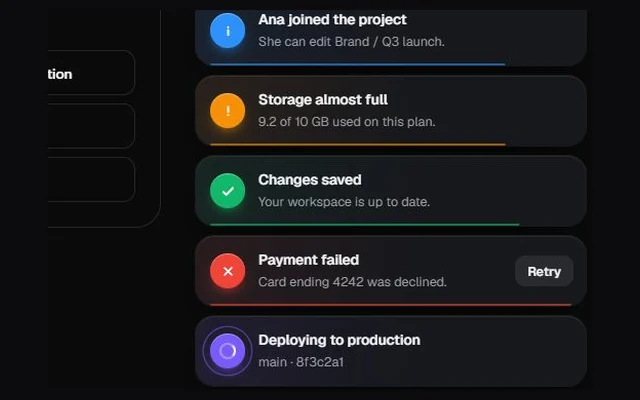
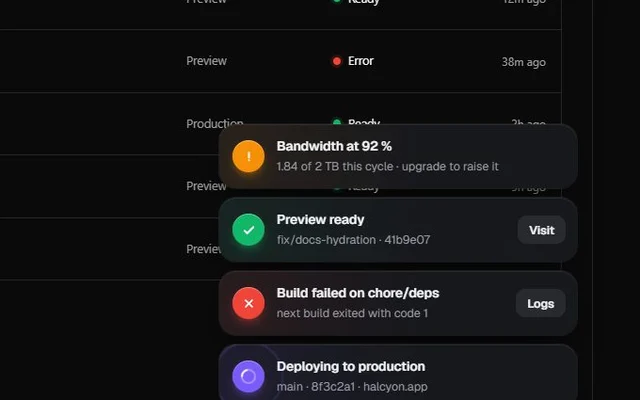
swarm-table-loader + ripple-toast-stack: review redo
swarm-table-loader: one accent, pixels flock onto skeleton bars under a soft
sweep, lock on when data lands, rows resolve with a stagger. No more confetti.
ripple-toast-stack: demo is a deploy dashboard with a resting four-toast deck;
back cards tint so the stack reads at rest.

diff --git a/components/ripple-toast-stack/demo.tsx b/components/ripple-toast-stack/demo.tsx
@@ -3,45 +3,47 @@
 import { useEffect } from "react"
 import RippleToastStack, { toast } from "@/components/ui/ripple-toast-stack"
 
-const fire = {
-  success: () => toast.success("Changes saved", { description: "Your workspace is up to date." }),
-  error: () =>
-    toast.error("Payment failed", {
-      description: "Card ending 4242 was declined.",
-      action: { label: "Retry", onClick: () => toast.success("Payment sent", { description: "$48.00 to Halcyon Studio" }) },
-    }),
-  info: () => toast.info("Ana joined the project", { description: "She can edit Brand / Q3 launch." }),
-  warning: () => toast.warning("Storage almost full", { description: "9.2 of 10 GB used on this plan." }),
-  promise: () =>
-    toast.promise(new Promise((r) => setTimeout(r, 2200)), {
-      loading: "Deploying to production",
-      success: "Deployed in 2.2s",
-      error: "Deploy failed",
-      description: "main · 8f3c2a1",
-    }),
-  undo: () =>
-    toast("Message archived", {
-      description: "Moved out of your inbox.",
-      action: { label: "Undo", onClick: () => toast.info("Message restored") },
-    }),
-}
+// Unsplash portraits, inlined so the demo fetches nothing.
[4 lines of base64/hex data omitted]
 
-const BUTTONS: [keyof typeof fire, string, string][] = [
-  ["success", "Success", "#12b76a"],
-  ["error", "Error + action", "#f04438"],
-  ["info", "Info", "#2e90fa"],
-  ["warning", "Warning", "#f79009"],
-  ["promise", "Promise", "#7a5af8"],
-  ["undo", "Undo", "#6f717a"],
+const DEPLOYS = [
+  { msg: "Ship pricing v3 behind a flag", branch: "main", sha: "8f3c2a1", who: A0, env: "Production", state: "Building", tone: "#7a5af8", when: "just now" },
+  { msg: "Fix hydration warning on /docs", branch: "fix/docs-hydration", sha: "41b9e07", who: A1, env: "Preview", state: "Ready", tone: "#12b76a", when: "12m ago" },
+  { msg: "Bump Next to 15.3 and prune deps", branch: "chore/deps", sha: "c07d2f4", who: A2, env: "Preview", state: "Error", tone: "#f04438", when: "38m ago" },
+  { msg: "Add Kyoto to the launch cities", branch: "main", sha: "9a1e6bd", who: A3, env: "Production", state: "Ready", tone: "#12b76a", when: "2h ago" },
+  { msg: "Tighten CSP for the embed widget", branch: "sec/csp", sha: "e25f810", who: A0, env: "Preview", state: "Ready", tone: "#12b76a", when: "5h ago" },
+  { msg: "Lazy-load the changelog images", branch: "perf/changelog", sha: "77ac3e2", who: A1, env: "Preview", state: "Canceled", tone: "#98a2b3", when: "yesterday" },
 ]
 
+const fire = {
+  deploy: () =>
+    toast.promise(new Promise((r) => setTimeout(r, 2400)), {
+      loading: "Deploying to production",
+      success: "Deployed in 2.4s",
+      error: "Deploy failed",
+      description: "main · 8f3c2a1 · halcyon.app",
+    }),
+  fail: () =>
+    toast.error("Build failed on chore/deps", {
+      description: "next build exited with code 1",
+      action: { label: "Logs", onClick: () => toast.info("Opening build logs") },
+    }),
+  invite: () => toast.success("Ana joined halcyon-web", { description: "Invited by you as a Developer" }),
+  undo: () => toast("Preview deleted", { description: "perf/changelog · 77ac3e2", action: { label: "Undo", onClick: () => toast.success("Preview restored") } }),
+}
+
 export default function Demo() {
-  // Seed a stack so the first frame shows it.
+  // A resting stack, so the first frame already shows the deck.
   useEffect(() => {
+    const at = (ms: number, f: () => void) => setTimeout(f, ms)
     const t = [
-      setTimeout(() => toast.info("Ana joined the project", { description: "She can edit Brand / Q3 launch.", duration: 20000 }), 300),
-      setTimeout(() => toast.warning("Storage almost full", { description: "9.2 of 10 GB used on this plan.", duration: 20000 }), 700),
-      setTimeout(() => toast.success("Changes saved", { description: "Your workspace is up to date.", duration: 20000 }), 1100),
+      at(200, () => toast.warning("Bandwidth at 92 %", { description: "1.84 of 2 TB this cycle · upgrade to raise it", duration: 0 })),
+      at(500, () => toast.success("Preview ready", { description: "fix/docs-hydration · 41b9e07", duration: 0, action: { label: "Visit", onClick: () => {} } })),
+      at(800, () => toast.error("Build failed on chore/deps", { description: "next build exited with code 1", duration: 0, action: { label: "Logs", onClick: () => {} } })),
+      at(1100, () => toast.loading("Deploying to production", { description: "main · 8f3c2a1 · halcyon.app" })),
     ]
     return () => {
       t.forEach(clearTimeout)
@@ -50,25 +52,63 @@ export default function Demo() {
   }, [])
 
   return (
-    <div className="relative flex min-h-[640px] w-full items-center justify-center overflow-hidden bg-background px-4 py-12">
-      <div className="w-full max-w-[420px] rounded-3xl border border-border p-6">
-        <p className="mb-1 text-[15px] font-semibold text-foreground">Fire a toast</p>
-        <p className="mb-5 text-[13px] text-muted-foreground">Hover the stack to fan it out and pause the timers. Drag a toast sideways to dismiss it.</p>
-        <div className="grid grid-cols-2 gap-2">
-          {BUTTONS.map(([k, label, c]) => (
-            <button
-              key={k}
-              type="button"
-              onClick={fire[k]}
-              className="flex h-11 items-center gap-2.5 rounded-xl border border-border px-3.5 text-left text-[13.5px] font-medium text-foreground transition hover:-translate-y-px active:scale-[.97]"
-            >
-              <span className="h-2.5 w-2.5 rounded-full" style={{ background: c, boxShadow: "0 0 0 4px " + c + "22" }} />
-              {label}
-            </button>
-          ))}
-        </div>
+    <div className="flex min-h-[760px] w-full items-center justify-center bg-background px-4 py-10">
+      <div className="relative w-full max-w-[1100px] overflow-hidden rounded-[28px] border border-border bg-background shadow-[0_30px_80px_-40px_rgba(0,0,0,.45)]" style={{ minHeight: 680 }}>
+        <header className="flex items-center gap-3 border-b border-border px-5 py-3.5">
+          <span className="grid h-7 w-7 place-items-center rounded-lg bg-foreground text-[13px] font-bold text-background">h</span>
+          <span className="text-[14px] font-semibold text-foreground">halcyon</span>
+          <span className="text-muted-foreground">/</span>
+          <span className="text-[14px] text-foreground">web</span>
+          <span className="ml-1 rounded-md border border-border px-1.5 py-0.5 text-[11px] text-muted-foreground">Pro</span>
+          <nav className="ml-6 hidden gap-1 text-[13px] sm:flex">
+            {["Overview", "Deployments", "Analytics", "Logs", "Settings"].map((n) => (
+              <span key={n} className={"rounded-lg px-3 py-1.5 " + (n === "Deployments" ? "bg-foreground/[.06] font-medium text-foreground" : "text-muted-foreground")}>
+                {n}
+              </span>
+            ))}
+          </nav>
+          <img src={A2} alt="" className="ml-auto h-7 w-7 rounded-full object-cover" style={{ maxWidth: "none" }} />
+        </header>
+
+        <main className="px-5 pb-40 pt-6 sm:px-8">
+          <div className="mb-5 flex flex-wrap items-end gap-3">
+            <div>
+              <h2 className="text-[22px] font-semibold tracking-tight text-foreground">Deployments</h2>
+              <p className="text-[13px] text-muted-foreground">Every push to a branch gets its own preview.</p>
+            </div>
+            <div className="ml-auto flex flex-wrap items-center gap-1.5 text-[12px]">
+              <span className="mr-1 text-muted-foreground">Simulate</span>
+              {(Object.keys(fire) as (keyof typeof fire)[]).map((k) => (
+                <button key={k} type="button" onClick={fire[k]} className="rounded-md border border-border px-2 py-1 capitalize text-foreground transition hover:bg-foreground/[.05] active:scale-95">
+                  {k}
+                </button>
+              ))}
+            </div>
+          </div>
+          <ul className="overflow-hidden rounded-2xl border border-border">
+            {DEPLOYS.map((d, i) => (
+              <li key={d.sha} className={"grid grid-cols-[1fr_auto] items-center gap-4 px-4 py-3.5 sm:grid-cols-[minmax(0,1fr)_140px_120px_90px] " + (i ? "border-t border-border" : "")}>
+                <div className="flex min-w-0 items-center gap-3">
+                  <img src={d.who} alt="" className="h-8 w-8 flex-none rounded-full object-cover" style={{ maxWidth: "none" }} />
+                  <div className="min-w-0">
+                    <p className="truncate text-[13.5px] font-medium text-foreground">{d.msg}</p>
+                    <p className="truncate font-mono text-[11.5px] text-muted-foreground">
+                      {d.branch} · {d.sha}
+                    </p>
+                  </div>
+                </div>
+                <span className="hidden text-[12.5px] text-muted-foreground sm:block">{d.env}</span>
+                <span className="flex items-center gap-2 text-[12.5px] text-foreground">
+                  <span className="h-2 w-2 rounded-full" style={{ background: d.tone, boxShadow: "0 0 0 3px " + d.tone + "22" }} />
+                  {d.state}
+                </span>
+                <span className="hidden text-right text-[12px] text-muted-foreground sm:block">{d.when}</span>
+              </li>
+            ))}
+          </ul>
+        </main>
+        <RippleToastStack contained position="bottom-right" />
       </div>
-      <RippleToastStack contained position="bottom-right" />
     </div>
   )
 }

diff --git a/components/ripple-toast-stack/ripple-toast-stack.tsx b/components/ripple-toast-stack/ripple-toast-stack.tsx
@@ -80,7 +80,7 @@ export const toast = Object.assign((title: string, o?: ToastOptions) => push("in
 export function stackOffset(index: number, expanded: boolean, height: number, gap: number) {
   if (expanded) return { y: index * (height + gap), scale: 1, opacity: 1 }
   const shown = Math.min(index, 3)
-  return { y: shown * 14, scale: 1 - shown * 0.055, opacity: index > 2 ? 0 : 1 - index * 0.1 }
+  return { y: shown * 17, scale: 1 - shown * 0.06, opacity: index > 2 ? 0 : 1 }
 }
 
 /** A swipe dismisses past 30 % of the toast's width, or on a fast flick. */
@@ -116,6 +116,7 @@ const CSS =
   ".rts-t:focus-visible{outline:none}" +
   ".rts-t:focus-visible .rts-card{box-shadow:0 0 0 2px var(--rts-c),var(--rts-shadow)}" +
   ".rts-t[data-back=true] .rts-card>*{opacity:0}" +
+  ".rts-t[data-back=true] .rts-card{background:color-mix(in srgb,var(--rts-bg),var(--rts-text) calc(var(--rts-depth,1) * 4%))}" +
   ".rts-card>*{transition:opacity .3s}" +
   ".rts-t[data-kind=success]{--rts-c:var(--rts-ok)}" +
   ".rts-t[data-kind=error]{--rts-c:var(--rts-bad)}" +
@@ -185,6 +186,7 @@ function Toast({ t, index, expanded, duration, width, onGone }: { t: ToastItem; 
   const style = {
     ["--rts-y" as string]: o.y,
     ["--rts-s" as string]: o.scale,
+    ["--rts-depth" as string]: Math.min(index, 3),
     ["--rts-d" as string]: ms + "ms",
     opacity: out === "swipe" ? 0 : o.opacity,
     zIndex: 100 - index,
